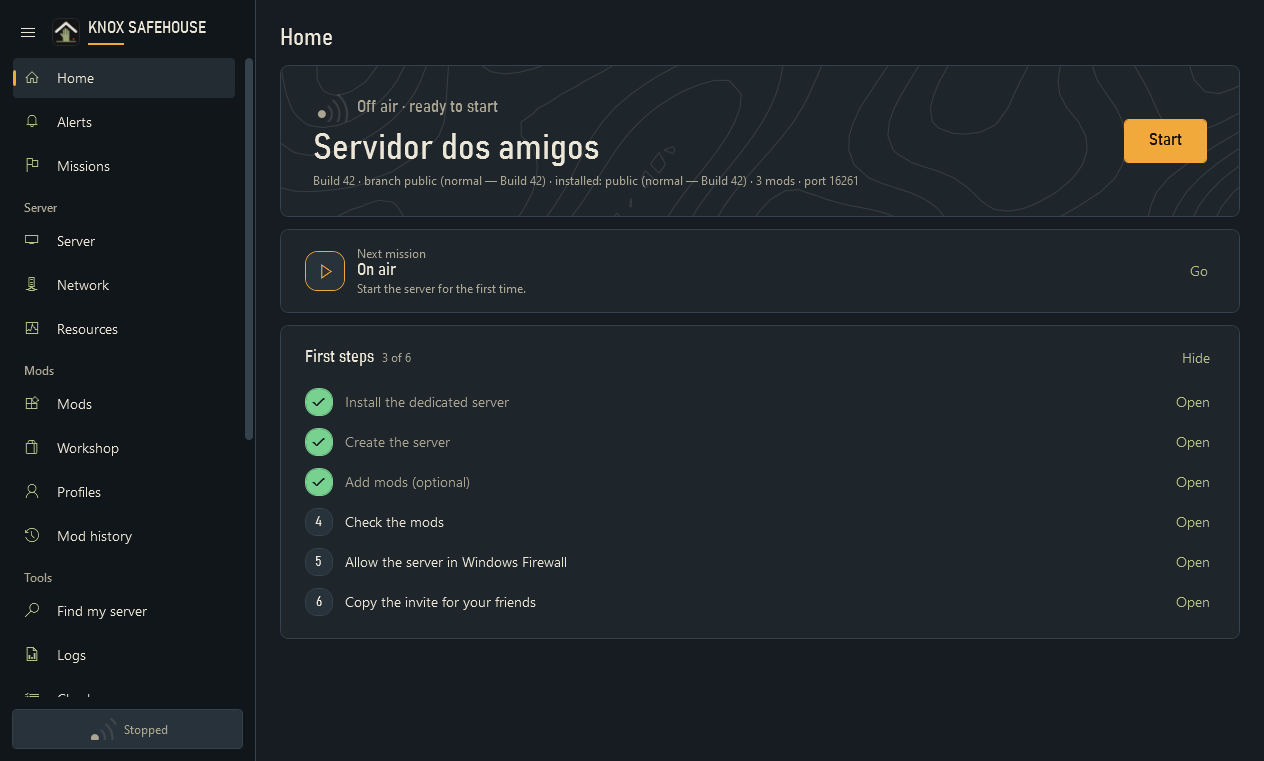
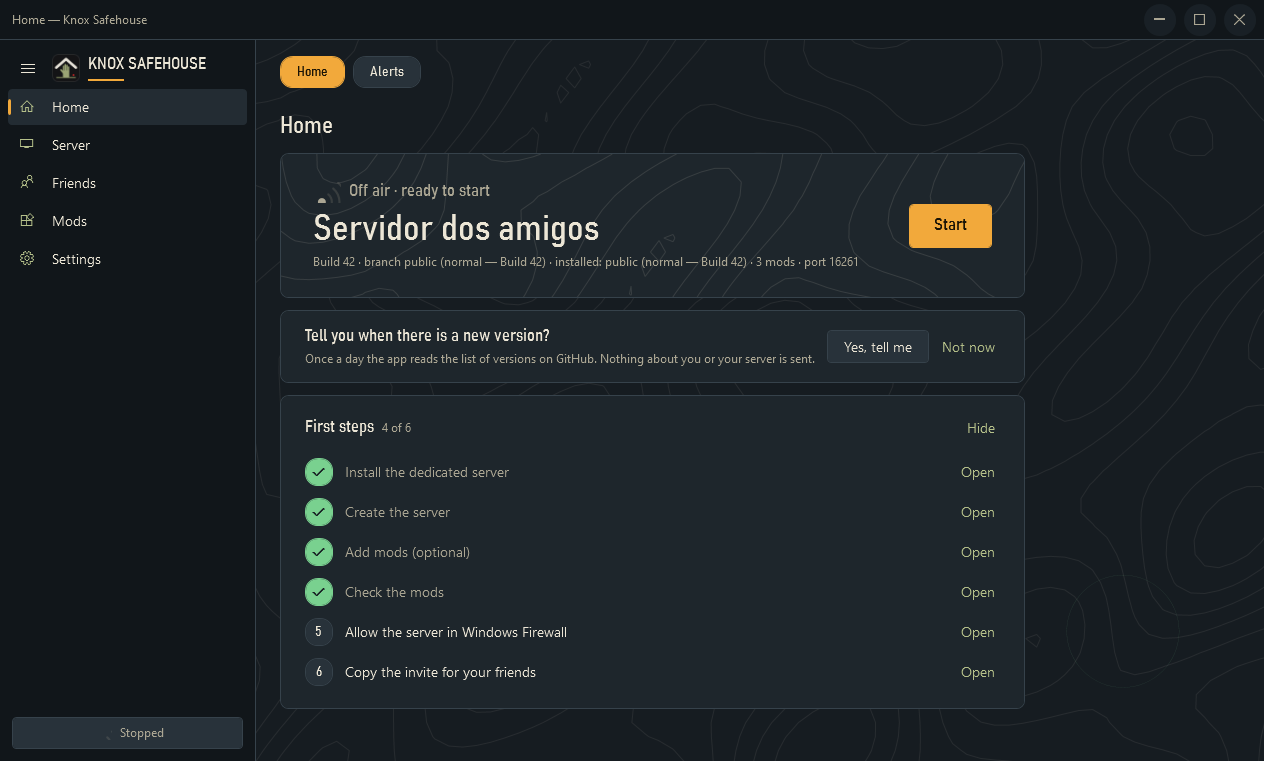
0.3.0: README com jogadores, cópias do mundo e temas; imagens novas; SHA-256 no SECURITY.md

diff --git a/README.md b/README.md
@@ -18,15 +18,27 @@ A free Windows app that installs and runs a Project Zomboid dedicated server: Wo
 ## What it does
 - **The server in one click** — installs and updates the official dedicated server with SteamCMD (Valve's signature checked), start/stop/restart, a console with filters and command history, a daily restart that warns the players and copies the world.
 - **Mods in the right order** — paste Workshop links or a whole collection: Workshop IDs ↔ Mod IDs, dependencies added automatically, drag to reorder, warnings when something is out of place, alerts for outdated or removed mods.
-- **Friends inside** — Windows Firewall rule (UDP, server ports only, Private networks), router steps, an invite ready for Discord, and modpack codes so friends can check they have the same mods.
-- **Go back when it breaks** — every change to the mod list is kept; restore the last list that worked.
+- **Friends inside** — Windows Firewall rule (UDP, server ports only, the networks you choose), router steps, an invite ready for Discord, and modpack codes so friends can check they have the same mods.
+- **Your players** — see who is on, kick, ban, unban or make someone admin with a button.
+- **Go back when it breaks** — every change to the mod list is kept; restore the last list that worked. **World copies** in one click (and before each daily restart), put any copy back — the current world is copied first.
+- **Keeps watch** — warns when Steam updates the game (before friends can't join), restarts the server if it crashes (up to 3 tries), and can tell you when a new version of the app is out.
 - **Private by default** — passwords in Windows Credential Manager, `UPnP=false`, RCON off, no telemetry.
 - **Leaves no trace** — per-user install (no administrator) or portable mode; the uninstaller removes exactly what the app created.
-- Portuguese (Portugal), Brazilian Portuguese and English · dark and light themes · keyboard and screen-reader friendly.
+- **Five themes with a living background** — Night in Knox, Paper map, Riverside forest, West Point rust and Winter in Knox: radio pulses, a pencil route, fireflies, a train, falling snow (off with Windows' animations). Same contrast in all of them.
+- Portuguese (Portugal), Brazilian Portuguese and English · keyboard and screen-reader friendly.
 
-| Server | Mods | Profiles |
+| Server | Players | World copies |
 |---|---|---|
-| ![Server page](images/server.png) | ![Mods page](images/mods.png) | ![Profiles page](images/profiles.png) |
+| ![Server page](images/server.png) | ![Players page](images/players.png) | ![World copies page](images/world-copies.png) |
+
+| Mods | Profiles |
+|---|---|
+| ![Mods page](images/mods.png) | ![Profiles page](images/profiles.png) |
+
+### Themes
+| Paper map | Riverside forest | West Point rust | Winter in Knox |
+|---|---|---|---|
+| ![Paper map theme](images/theme-light.png) | ![Riverside forest theme](images/theme-forest.png) | ![West Point rust theme](images/theme-rust.png) | ![Winter in Knox theme](images/theme-winter.png) |
 
 ## Download
 Get the latest **`KnoxSafehouse-<version>-win-x64.zip`** from [Releases](https://github.com/PzLauncher/knox-safehouse/releases). It contains `KnoxSafehouse.exe` (self-contained, no .NET install needed), its SHA-256, `LEIA-ME.txt` and `SECURITY.md`.
@@ -51,6 +63,8 @@ Licence: all rights reserved — free to download and use, no warranty.
 ## 🇵🇹 Português
 
 **O teu servidor de Project Zomboid para os amigos, no ar em minutos.** App gratuita para Windows 10/11 que instala e gere um servidor dedicado: mods do Workshop pela ordem certa, firewall e convite para os amigos, sem linhas de comando.
+
+Também: lista de **jogadores** (expulsar, banir, dar admin), **cópias do mundo** com um clique (e repor qualquer uma), aviso quando a Steam **atualiza o jogo**, **reinício automático** se o servidor falhar e **cinco temas** com fundo animado.
 
 > Projeto de fãs, não oficial, sem ligação à The Indie Stone. Project Zomboid pertence aos respetivos donos. Não comercial.
 

diff --git a/SECURITY.md b/SECURITY.md
@@ -28,6 +28,7 @@ As versões ainda **não têm assinatura de código** (o Windows SmartScreen pod
[4 lines of base64/hex data omitted]
 
 ## Bloqueio da app
 O bloqueio com o Windows Hello chega no Marco 6. Quando existir, protege contra alguém que use o teu PC já desbloqueado; **não** protege contra malware nem contra quem tenha a tua conta do Windows.
